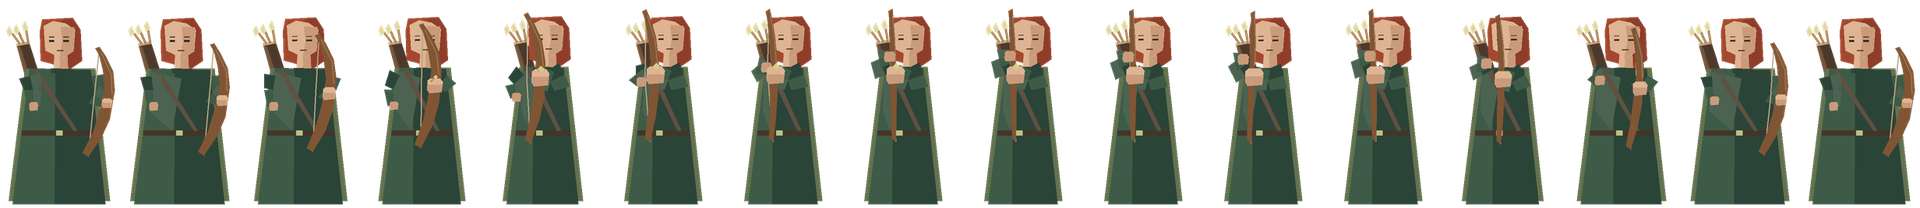
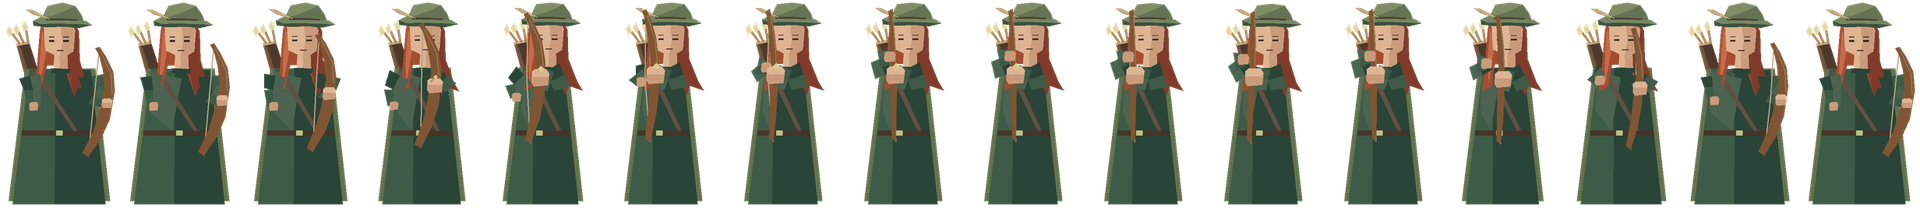
Animate Cerviel bow form and update Lysa ranger look

diff --git a/src/client/components/game/combat/CreatureFigure.tsx b/src/client/components/game/combat/CreatureFigure.tsx
@@ -54,7 +54,7 @@ import cervielStaffArt from '../../../assets/heroes/cerviel-staff.webp';
 import cervielSwordArt from '../../../assets/cerviel/Villain-Run-Cerviel-Six-Swords.webp';
 import cervielOpenArt from '../../../assets/cerviel/Villain-Run-Cerviel-Open-Hands.webp';
 import cervielFistsArt from '../../../assets/cerviel/Villain-Run-Cerviel-Closed-Fists.webp';
-import cervielBowArt from '../../../assets/heroes/cerviel-bow.webp';
+import { ArcherSprite } from './ArcherSprite';
 import cambielArt from '../../../assets/heroes/grandangel-cambiel.webp';
 import geonosisArt from '../../../assets/heroes/grandangel-geonosis.webp';
 import razielArt from '../../../assets/heroes/grandangel-raziel.webp';
@@ -728,8 +728,8 @@ const MageBorneAstra = () => (
   <ProgressiveSvgImage data-mage-borne-astra="" href={astraArt} x={36} y={-15} width={78} height={117} />
 );
 
-const CERVIEL_ART = { staff: cervielStaffArt, sword: cervielSwordArt, bow: cervielBowArt };
-const CervielForm = ({ form, size, action }: { form: keyof typeof CERVIEL_ART; size: HeroSize; action?: HeroAction | null | undefined }) => {
+const CERVIEL_ART = { staff: cervielStaffArt, sword: cervielSwordArt };
+const CervielForm = ({ form, size, action }: { form: keyof typeof CERVIEL_ART | 'bow'; size: HeroSize; action?: HeroAction | null | undefined }) => {
   const half = BODY_WIDTH[size] / 2;
   const isStaff = form === 'staff';
   const width = isStaff || form === 'sword' ? 104 : 87;
@@ -738,8 +738,15 @@ const CervielForm = ({ form, size, action }: { form: keyof typeof CERVIEL_ART; s
   const left = half - width / 2;
   return (
     <g className="angel-hover" data-cerviel-form={form}>
-      <ProgressiveSvgImage href={form === 'sword' && action?.style === 'magic' ? cervielOpenArt : form === 'sword' && action?.style === 'support' ? cervielFistsArt : CERVIEL_ART[form]} x={left} y={y} width={width} height={height} />
-      {form === 'bow' && <circle className="hero-arrow" cx={left + width * .14} cy={y + height * .337} r={1} fill="transparent" />}
+      {form === 'bow' ? (
+        <foreignObject x={left} y={y} width={width} height={height} pointerEvents="none">
+          <div className="relative size-full">
+            <ArcherSprite heroId="cervielBow" action={action ?? null} />
+          </div>
+        </foreignObject>
+      ) : (
+        <ProgressiveSvgImage href={form === 'sword' && action?.style === 'magic' ? cervielOpenArt : form === 'sword' && action?.style === 'support' ? cervielFistsArt : CERVIEL_ART[form]} x={left} y={y} width={width} height={height} />
+      )}
     </g>
   );
 };
@@ -805,7 +812,7 @@ const CREATURE_DRAWINGS: Record<
   zadkielOfDominations: ZadkielOfDominations,
   grandangelCerviel: ({ size }) => <CervielForm form="staff" size={size} />,
   cervielSword: ({ size, action }) => <CervielForm form="sword" size={size} action={action} />,
-  cervielBow: ({ size }) => <CervielForm form="bow" size={size} />,
+  cervielBow: ({ size, action }) => <CervielForm form="bow" size={size} action={action} />,
   grandangelCambiel: GrandangelCambiel,
   grandangelGeonosis: GrandangelGeonosis,
   grandangelRaziel: GrandangelRaziel,

diff --git a/src/client/components/game/combat/ArcherSprite.tsx b/src/client/components/game/combat/ArcherSprite.tsx
@@ -4,9 +4,10 @@ import { HERO_ATTACK_MS } from '../../../hooks/useHeroTurn';
 import woodland from '../../../assets/heroes/woodland-archers/woodland-archer-strip.webp';
 import crowned from '../../../assets/heroes/woodland-archers/crowned-archer-strip.webp';
 import angel from '../../../assets/heroes/woodland-archers/angel-archer-strip.webp';
+import cerviel from '../../../assets/heroes/woodland-archers/cerviel-bow-strip.webp';
 import './woodland-archer.css';
 
-const atlas = { archer: woodland, lysa: crowned, wingedArcher: angel };
+const atlas = { archer: woodland, lysa: crowned, wingedArcher: angel, cervielBow: cerviel };
 
 export function ArcherSprite({ heroId, action }: {
   heroId: keyof typeof atlas;

diff --git a/src/client/components/game/combat/woodland-archer.css b/src/client/components/game/combat/woodland-archer.css
@@ -29,6 +29,14 @@
   top: 42%;
 }
 
+/* Inside Cerviel's original SVG art box, so its screen size and hover
+   motion stay aligned with the other Cerviel forms. */
+.woodland-archer[data-archer-sprite='cervielBow'] { aspect-ratio: 156 / 172; }
+.woodland-archer[data-archer-sprite='cervielBow'] .woodland-arrow-origin {
+  left: 41.8%;
+  top: 32.6%;
+}
+
 @keyframes woodland-archer-shot {
   from { background-position-x: 0%; }
   to { background-position-x: 100%; }
